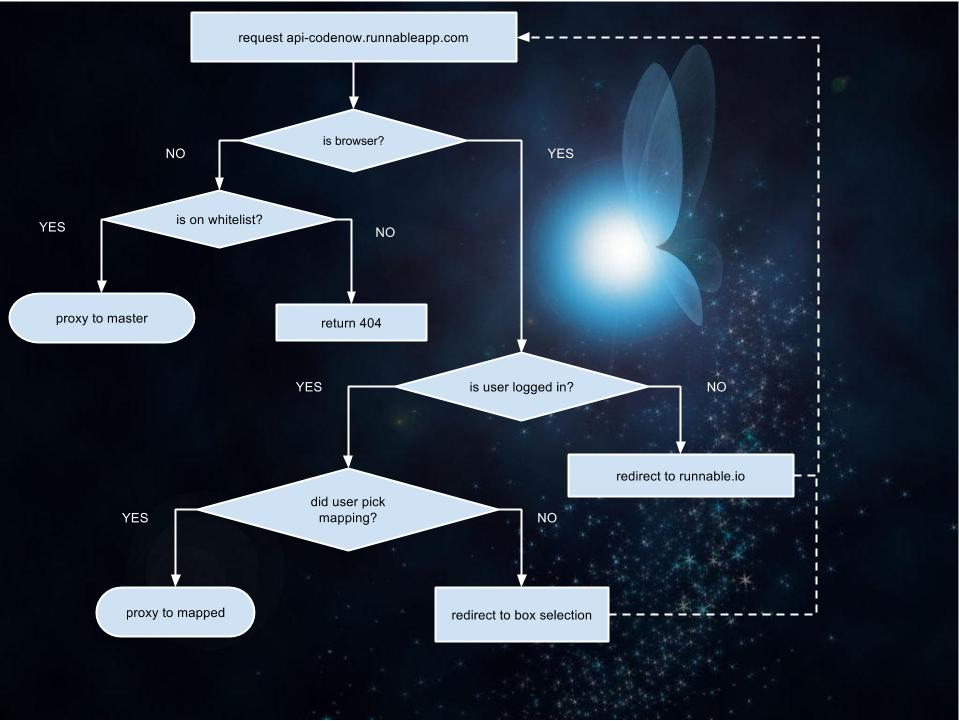
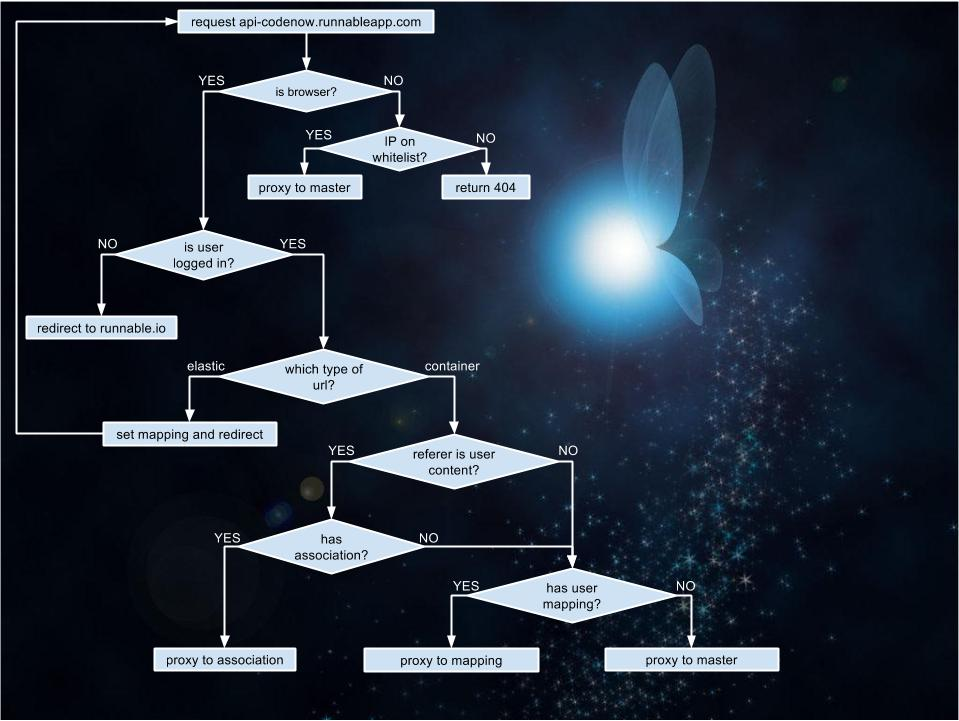
update image, more debug

diff --git a/lib/models/api.js b/lib/models/api.js
@@ -179,7 +179,7 @@ api._handleElasticUrl = function (client, elasticUrl, refererUrl, masterInstance
       if (!refererRoute) {
         return checkForMapping(masterUrl, cb);
       }
-      debug('Case: referer has a mapping, check associations');
+      debug('Case: referer has a mapping, check associations', refererRoute);
       client
         .newInstance(refererRoute.destInstanceId)
         .fetchDependencies({
